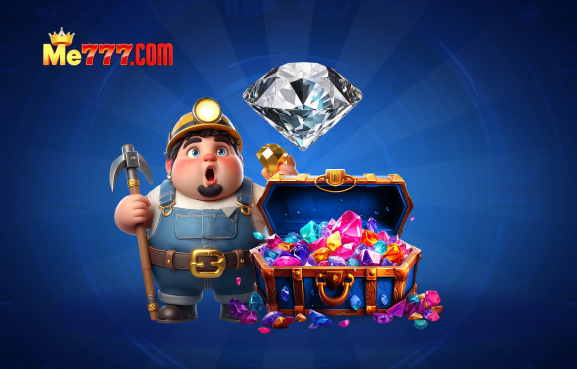
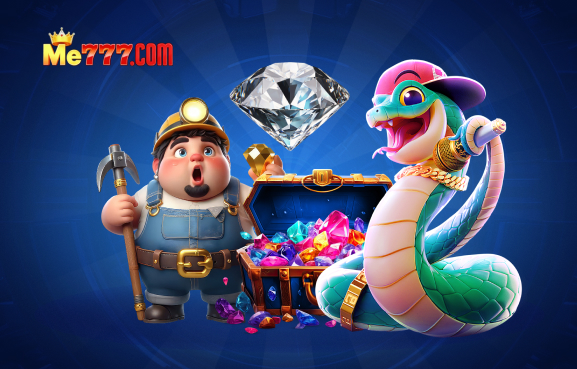
Updated Pic

diff --git a/app/app.vue b/app/app.vue
@@ -24,6 +24,24 @@ useSeoMeta({
       <UiInfoBar />
       <NuxtPage />
       <LazyAppFooter />
+
+      <div class="fixed right-4 top-1/2 z-[70] flex flex-col transform gap-3 -translate-y-1/2">
+        <a
+          href="https://t.me/+H2V-8z1VhxY0ODQ1"
+          target="_blank"
+          rel="noopener"
+          class="group rounded-full bg-[#0088cc] p-4 shadow-xl transition-all duration-300 hover:scale-125"
+          aria-label="Telegram"
+        >
+          <svg class="h-8 w-8 text-white" fill="currentColor" viewBox="0 0 24 24">
+            <path d="M12 0C5.373 0 0 5.373 0 12s5.373 12 12 12 12-5.373 12-12S18.627 0 12 0zm5.894 8.221l-1.97 9.28c-.145.658-.537.818-1.084.508l-3-2.21-1.446 1.394c-.14.14-.26.26-.514.26l.2-3.005 5.594-5.04c.24-.213-.054-.334-.373-.121l-6.97 4.48-3.02-.94c-.64-.203-.658-.64.136-.954l11.7-4.5c.534-.196 1.002.13.832.941z" />
+          </svg>
+          <span class="absolute right-full top-1/2 mr-2 rounded-lg bg-gray-800 px-3 py-2 text-base text-white opacity-0 transition-opacity -translate-y-1/2 group-hover:opacity-100">
+            Join Telegram
+          </span>
+        </a>
+      </div>
+
       <UiScrollButton />
     </Body>
   </Html>

diff --git a/app/components/home/HomeBrandList.vue b/app/components/home/HomeBrandList.vue
@@ -3,23 +3,23 @@ const { locale } = useI18n()
 
 const urls = [
   {
-    url: 'https://www.ncsc.govt.nz/',
+    url: 'https://www-me777.com/',
     name: 'NCSC',
   },
   {
-    url: 'https://netsafe.org.nz/',
+    url: 'https://www-me777.com/',
     name: 'NetSafe',
   },
   {
-    url: 'https://bitwarden.com/',
+    url: 'https://www-me777.com/',
     name: 'Bitwarden',
   },
   {
-    url: 'https://www.ownyouronline.govt.nz/',
+    url: 'https://www-me777.com/',
     name: 'OwnYourOnline',
   },
   {
-    url: (locale.value === 'ko') ? 'https://www.samsung.com/sec/' : 'https://www.samsung.com/nz/',
+    url: (locale.value === 'ko') ? 'https://www-me777.com/' : 'https://www.www-me777.com/',
     name: 'Samsung',
   },
 ]

diff --git a/app/pages/analysis.vue b/app/pages/analysis.vue
@@ -96,8 +96,8 @@ useLangMeta('analysis.meta', seoImage)
               <span class="text-emerald-600">{{ $t('analysis.keyTrend.desc14') }}</span>
             </div>
             <div class="commission-grid">
-              <span> {{ $t('analysis.keyTrend.desc14') }}</span>
-              <span class="text-emerald-600">{{ $t('analysis.keyTrend.desc15') }}</span>
+              <span> {{ $t('analysis.keyTrend.desc15') }}</span>
+              <span class="text-emerald-600">{{ $t('analysis.keyTrend.desc16') }}</span>
             </div>
           </div>
 

diff --git a/app/components/AppFooter.vue b/app/components/AppFooter.vue
@@ -15,7 +15,7 @@ const { t } = useI18n()
         <FooterItem
           :title="t('footer.community')"
           title-class="text-gray-300"
-          :links="[{ text: t('footer.telegram'), href: 'https://t.me/VIPAgent_BAJI72', external: true }]"
+          :links="[{ text: t('footer.telegram'), href: 'https://t.me/+H2V-8z1VhxY0ODQ1', external: true }]"
           link-class="text-gray-400 hover:text-white transition-colors"
         />
 

diff --git a/app/components/home/HomeBlogFeature.vue b/app/components/home/HomeBlogFeature.vue
@@ -25,7 +25,7 @@ const featureSetTwo = computed(() => features.value?.slice(3, 6) || [])
         <h2 id="latest-posts" class="m0 text-4xl font-bold tracking-wide md:text-5xl">
           {{ $t('home.latest') }}
         </h2>
-        <p class="m0 pt3 text-sm text-dark-400 dark:text-gray-200">
+        <p class="m0 pt3 text-xl text-dark-400 dark:text-gray-200">
           {{ $t('home.features.description') }}
         </p>
       </div>

diff --git a/content/en/blog/Electronic-Gaming-Assistance-Fund.md b/content/en/blog/Electronic-Gaming-Assistance-Fund.md
@@ -1,7 +1,7 @@
 ---
 title: "Electronic Gaming Assistance Fund"
 description: "LOSE ON SLOT BONUS"
-img: "/images/blog/covers/phishing-text-message-scams-2023.jpg"
+img: "/images/blog/covers/phishing-text-message-scams-2023.png"
 feature: true
 date: "2025-09-10"
 tag: Electronic Gaming

diff --git a/content/ko/blog/Electronic-Gaming-Assistance-Fund.md b/content/ko/blog/Electronic-Gaming-Assistance-Fund.md
@@ -1,7 +1,7 @@
 ---
 title: "Pondo ng Tulong sa Electronic Gaming"
 description: "BONUS SA PAGKATALO SA SLOT"
-img: "/images/blog/covers/phishing-text-message-scams-2023.jpg"
+img: "/images/blog/covers/phishing-text-message-scams-2023.png"
 feature: true
 date: "2025-09-10"
 tag: Electronic Gaming

diff --git a/content/zh/blog/Electronic-Gaming-Assistance-Fund.md b/content/zh/blog/Electronic-Gaming-Assistance-Fund.md
@@ -1,7 +1,7 @@
 ---
 title: "电子游戏援助基金"
 description: "老虎机亏损援助"
-img: "/images/blog/covers/phishing-text-message-scams-2023.jpg"
+img: "/images/blog/covers/phishing-text-message-scams-2023.png"
 feature: true
 date: "2025-09-10"
 tag: 电子游戏